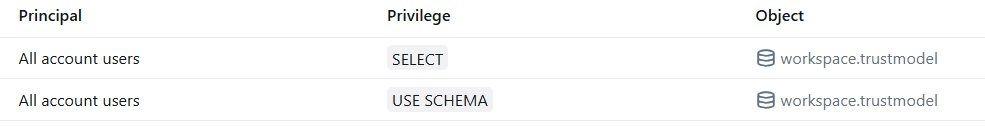
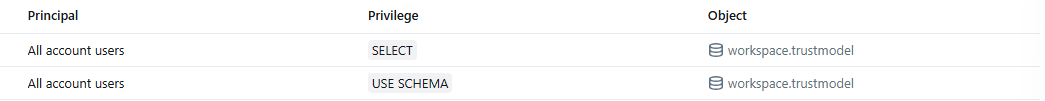
updated based on feedback

diff --git a/README.md b/README.md
@@ -14,9 +14,17 @@ The Trust Score data also comes packed with a [Streamlit](https://docs.streamlit
 In order to run the app, the Trust Score data must already be setup.  
 The app can be run both locally and within Databricks. Both options will be discussed further on.
 
+## Prerequisites
+
+To run the app locally, ensure that Python is installed. The app was tested with Python 3.13.
+To run the code, use an IDE like VS Code or Visual Studio. 
+For Visual Studio, Build Tools for Visual Studio might me required.
+
 ## Run the App locally
 
 After cloning the repository, several dependencies are required to install. 
+To run the commands below, you have to start in the directory where the repository was cloned.
+
 
 ### Create virtual environment
 To keep things clean, create a virtual environment.
@@ -38,7 +46,7 @@ The connectionstring typically looks like this:
 
 `/sql/1.0/warehouses/aebf123456abcd12`
 
-Create a new environment variable:
+Create a new Windows environment variable:
 
 `DATABRICKS_WAREHOUSE_ID : aebf123456abcd12`
 
@@ -63,6 +71,7 @@ If the Databricks CLI is missing or outdated, please refer to: https://docs.data
 ### Create the app in Databricks
 
 First, create the app in Databricks. Keep in mind that the Free Edition of Databricks only allows 1 app.
+To run the commands below, you have to start in the directory where the repository was cloned.
 
 `databricks apps create demo-app`
 
@@ -93,9 +102,12 @@ For production purposes, permissions should be tailored the Service Principal of
 For demo purposes, a simplified configuration will suffice.
 
 ![alt text](Images/image-1.png)
+![alt text](Images/image-3.png)
 
 ### Run the app
 Start the app (if it's not already running). It can be found on the following URL:
 ![alt text](Images/image-2.png)
+
+
 
 https://www.infosupport.com
